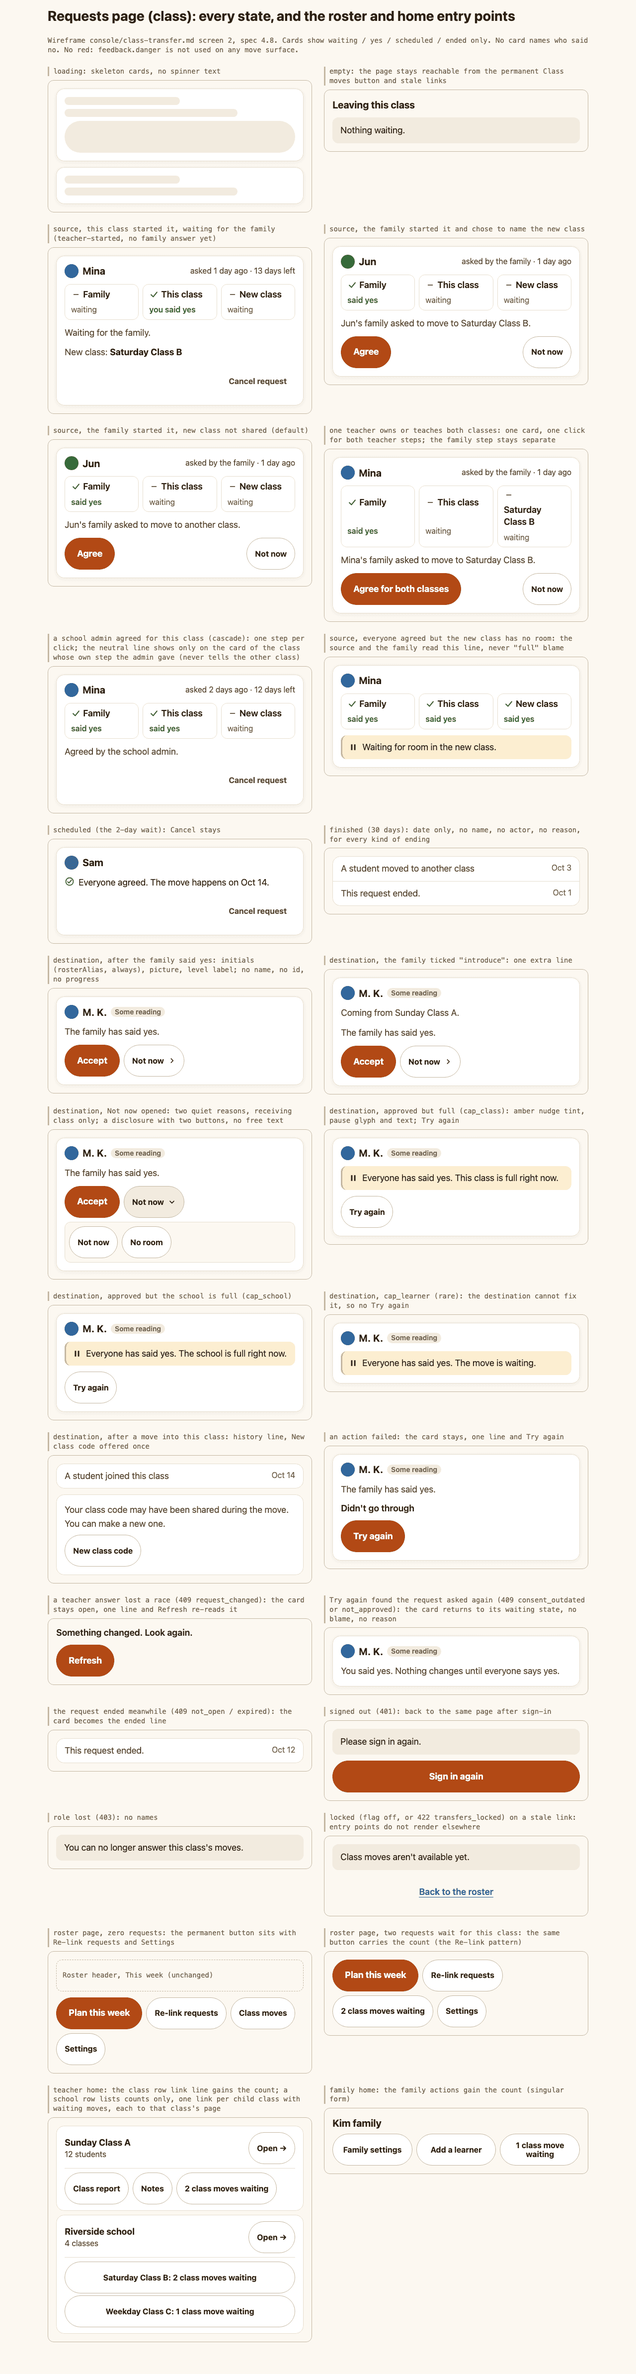
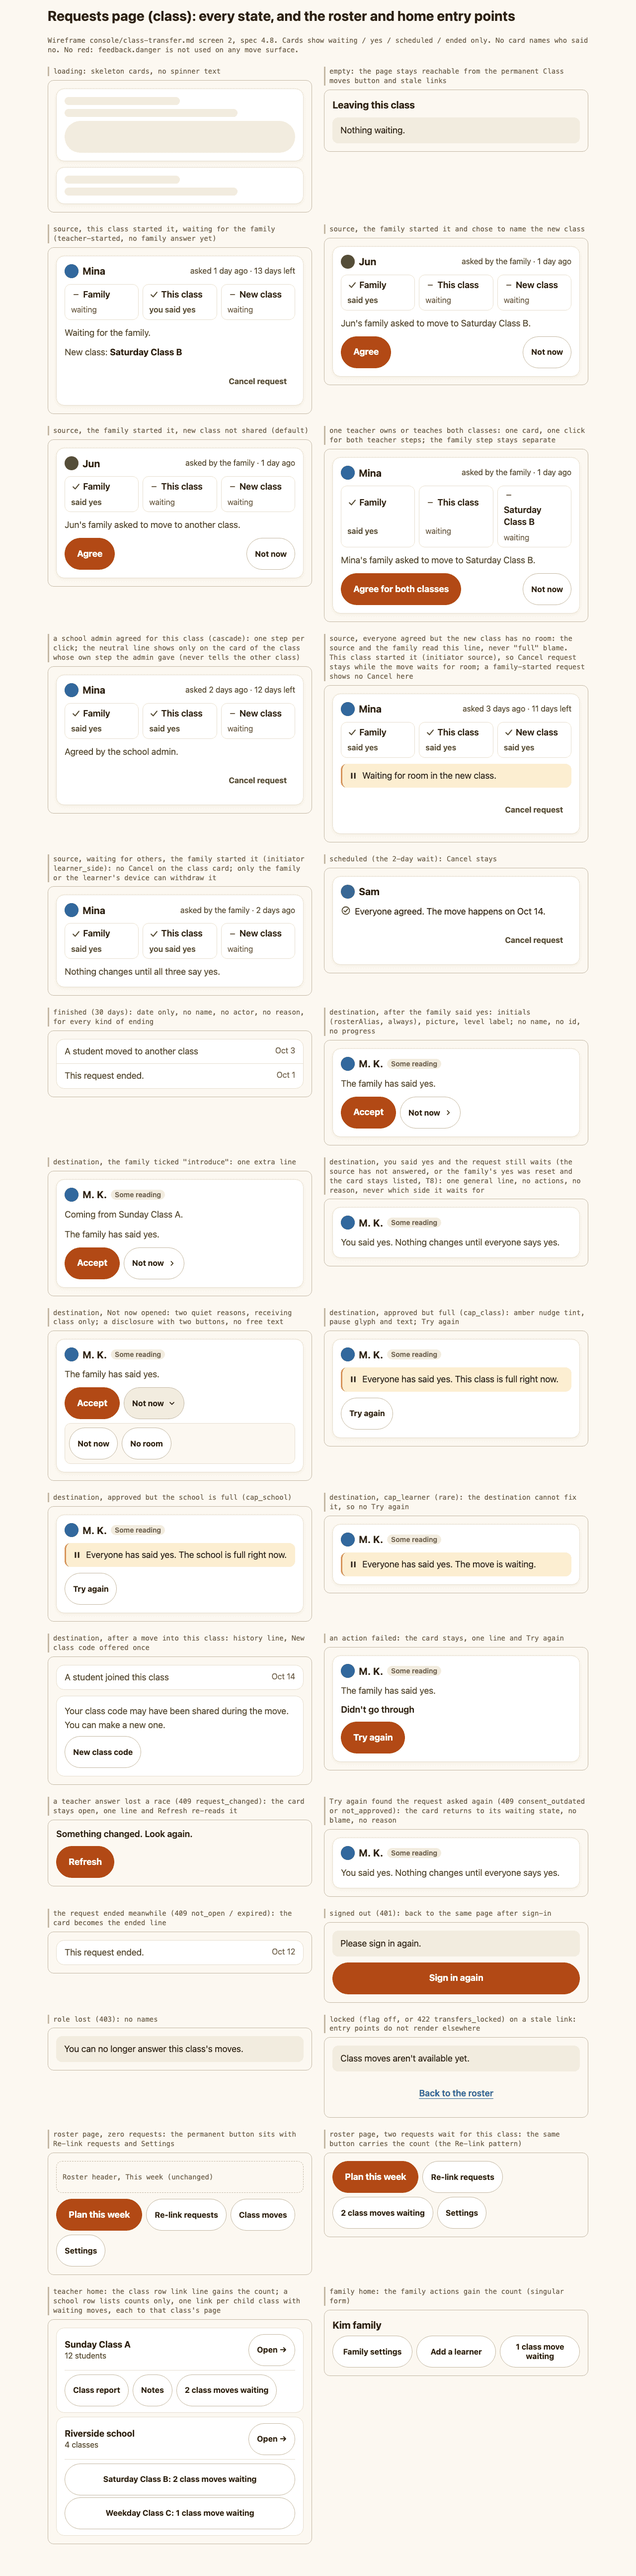
design(transfer): source Cancel follows initiator, destination waiting line after its yes (F-SPACE-002 T-0b)
Codex review on PR #472: a source card shows Cancel request in requested
and approved (waiting, blocked for room, scheduled) only when this class
started the request, as the cancel route allows; a family-started request
never shows it there. The destination card gains its post-answer waiting
line for a source that has not answered and for a family yes that was
reset (T8). Cards, States, README strings and D22/D23 updated; the states
board is re-rendered. CLASS_TRANSFER stays off.

diff --git a/design/screens/transfer/mock/requests-states.html b/design/screens/transfer/mock/requests-states.html
@@ -50,12 +50,20 @@
   
   <div class="move-actions"><button type="button" class="btn btn-quiet btn-small push">Cancel request</button></div>
 </article></div></div></div>
-<div class="board-item"><p class="board-label">source, everyone agreed but the new class has no room: the source and the family read this line, never "full" blame</p><div class="sample"><div class="sample-pad stack-md"><article class="move-card" aria-labelledby="card-12">
-  <div class="move-head"><p class="move-who" id="card-12"><span class="chip" style="background: var(--colors-hoya-furBlueDark)" aria-hidden="true"></span><span>Mina</span></p></div>
+<div class="board-item"><p class="board-label">source, everyone agreed but the new class has no room: the source and the family read this line, never "full" blame. This class started it (initiator source), so Cancel request stays while the move waits for room; a family-started request shows no Cancel here</p><div class="sample"><div class="sample-pad stack-md"><article class="move-card" aria-labelledby="card-12">
+  <div class="move-head"><p class="move-who" id="card-12"><span class="chip" style="background: var(--colors-hoya-furBlueDark)" aria-hidden="true"></span><span>Mina</span></p><p class="move-when">asked 3 days ago · 11 days left</p></div>
   
   <ol class="steps" aria-label="Who has said yes"><li class="step yes"><svg class="icon" width="20" height="20" viewBox="0 0 24 24" aria-hidden="true" focusable="false"><path d="M5 12.5 L10 17.5 L19 6.5" style="fill: none; stroke: var(--colors-feedback-successDark); stroke-width: 2.6; stroke-linecap: round; stroke-linejoin: round"/></svg><span class="step-who">Family</span><span class="step-state">said yes</span></li><li class="step yes"><svg class="icon" width="20" height="20" viewBox="0 0 24 24" aria-hidden="true" focusable="false"><path d="M5 12.5 L10 17.5 L19 6.5" style="fill: none; stroke: var(--colors-feedback-successDark); stroke-width: 2.6; stroke-linecap: round; stroke-linejoin: round"/></svg><span class="step-who">This class</span><span class="step-state">said yes</span></li><li class="step yes"><svg class="icon" width="20" height="20" viewBox="0 0 24 24" aria-hidden="true" focusable="false"><path d="M5 12.5 L10 17.5 L19 6.5" style="fill: none; stroke: var(--colors-feedback-successDark); stroke-width: 2.6; stroke-linecap: round; stroke-linejoin: round"/></svg><span class="step-who">New class</span><span class="step-state">said yes</span></li></ol>
   
   <div class="room-block"><svg class="icon" width="20" height="20" viewBox="0 0 24 24" aria-hidden="true" focusable="false"><path d="M6.5 5 H10 V19 H6.5 Z" style="fill: var(--colors-text-primary)"/><path d="M14 5 H17.5 V19 H14 Z" style="fill: var(--colors-text-primary)"/></svg><p>Waiting for room in the new class.</p></div>
+  <div class="move-actions"><button type="button" class="btn btn-quiet btn-small push">Cancel request</button></div>
+</article></div></div></div>
+<div class="board-item"><p class="board-label">source, waiting for others, the family started it (initiator learner_side): no Cancel on the class card; only the family or the learner's device can withdraw it</p><div class="sample"><div class="sample-pad stack-md"><article class="move-card" aria-labelledby="card-41">
+  <div class="move-head"><p class="move-who" id="card-41"><span class="chip" style="background: var(--colors-hoya-furBlueDark)" aria-hidden="true"></span><span>Mina</span></p><p class="move-when">asked by the family · 2 days ago</p></div>
+  
+  <ol class="steps" aria-label="Who has said yes"><li class="step yes"><svg class="icon" width="20" height="20" viewBox="0 0 24 24" aria-hidden="true" focusable="false"><path d="M5 12.5 L10 17.5 L19 6.5" style="fill: none; stroke: var(--colors-feedback-successDark); stroke-width: 2.6; stroke-linecap: round; stroke-linejoin: round"/></svg><span class="step-who">Family</span><span class="step-state">said yes</span></li><li class="step yes"><svg class="icon" width="20" height="20" viewBox="0 0 24 24" aria-hidden="true" focusable="false"><path d="M5 12.5 L10 17.5 L19 6.5" style="fill: none; stroke: var(--colors-feedback-successDark); stroke-width: 2.6; stroke-linecap: round; stroke-linejoin: round"/></svg><span class="step-who">This class</span><span class="step-state">you said yes</span></li><li class="step"><svg class="icon" width="20" height="20" viewBox="0 0 24 24" aria-hidden="true" focusable="false"><path d="M7 12 H17" style="fill: none; stroke: var(--colors-text-muted); stroke-width: 2.6; stroke-linecap: round; stroke-linejoin: round"/></svg><span class="step-who">New class</span><span class="step-state">waiting</span></li></ol>
+  
+  <p class="move-line">Nothing changes until all three say yes.</p>
   
 </article></div></div></div>
 <div class="board-item"><p class="board-label">scheduled (the 2-day wait): Cancel stays</p><div class="sample"><div class="sample-pad stack-md"><article class="move-card" aria-labelledby="card-13">
@@ -83,6 +91,13 @@
   <p class="move-line">The family has said yes.</p>
   
   <div class="move-actions"><button type="button" class="btn btn-primary">Accept</button><button type="button" class="btn btn-small" aria-expanded="false" aria-controls="reasons-16" aria-label="Not now, choose a reason" data-toggle><span>Not now</span><svg class="chev" viewBox="0 0 24 24" aria-hidden="true" focusable="false"><path d="M9.5 6 L15.5 12 L9.5 18" style="fill: none; stroke: var(--colors-text-primary); stroke-width: 2.6; stroke-linecap: round; stroke-linejoin: round"/></svg></button><div class="reasons" id="reasons-16" role="group" aria-label="Choose an answer" hidden><button type="button" class="btn btn-small">Not now</button><button type="button" class="btn btn-small">No room</button></div></div>
+</article></div></div></div>
+<div class="board-item"><p class="board-label">destination, you said yes and the request still waits (the source has not answered, or the family's yes was reset and the card stays listed, T8): one general line, no actions, no reason, never which side it waits for</p><div class="sample"><div class="sample-pad stack-md"><article class="move-card" aria-labelledby="card-42">
+  <div class="move-head"><p class="move-who" id="card-42"><span class="chip" style="background: var(--colors-hoya-furBlueDark)" aria-hidden="true"></span><span class="alias">M. K.</span><span class="level-pill">Some reading</span></p></div>
+  
+  
+  <p class="move-line">You said yes. Nothing changes until everyone says yes.</p>
+  
 </article></div></div></div>
 <div class="board-item"><p class="board-label">destination, Not now opened: two quiet reasons, receiving class only; a disclosure with two buttons, no free text</p><div class="sample"><div class="sample-pad stack-md"><article class="move-card" aria-labelledby="card-19">
   <div class="move-head"><p class="move-who" id="card-19"><span class="chip" style="background: var(--colors-hoya-furBlueDark)" aria-hidden="true"></span><span class="alias">M. K.</span><span class="level-pill">Some reading</span></p></div>

diff --git a/design/screens/transfer/requests-page.md b/design/screens/transfer/requests-page.md
@@ -46,19 +46,21 @@ URL `/teach/space/transfers?id=<space id>` (`ROUTES.spaceTransfers(id)`); docume
 | Card | Who sees it | Words | Actions |
 |---|---|---|---|
 | Source, this class must answer (family started) | source manager | "{Name}'s family asked to move to another class." (or "... to {Destination}." only when the family ticked `introduce`) | **Agree** (primary), **Not now** (plain, no menu) |
-| Source, waiting for others | source manager | "Nothing changes until all three say yes." | **Cancel request** (quiet) |
+| Source, waiting for others | source manager | "Nothing changes until all three say yes." | **Cancel request** (quiet) when this class started it (`initiator: 'source'`); none on a family-started request |
 | Source, this class started it, no family answer yet | source manager | "Waiting for the family." and "New class: {Destination}" (this class named it) | **Cancel request** |
 | Both classes owned or taught by this account directly | that teacher | the family step stays separate | **Agree for both classes** |
 | A school admin agreed for this class (cascade) | only the class whose own slot was filled `via: school_admin` | "Agreed by the school admin." | as the card's state |
-| Approved, no room yet | source and family | "Waiting for room in the new class." in the room block | none (source); Cancel (family) |
-| Scheduled | everyone who can see the request | "Everyone agreed. The move happens on {date}." | **Cancel request** (starter, caregivers, the learner's device) |
+| Approved, no room yet | source and family | "Waiting for room in the new class." in the room block | **Cancel request** on the source card when this class started it (`initiator: 'source'`), none on a family-started request; Cancel (family) |
+| Scheduled | everyone who can see the request | "Everyone agreed. The move happens on {date}." | **Cancel request** (starter, caregivers, the learner's device; on the source card only when this class started it) |
 | Destination, family said yes | destination manager | initials, avatar, level pill; "The family has said yes."; "Coming from {Source}." first only with `introduce` | **Accept** (primary), **Not now** with reasons |
+| Destination, you said yes, waiting for the others | destination manager, after its own yes while the request is still `requested`: the source has not answered yet, or the family's yes was reset after this class said yes (the card stays listed, T8 and the GET row) | initials, avatar, level pill; "You said yes. Nothing changes until everyone says yes." (no reason, never which side it waits for) | none |
 | Destination, approved, no room | destination manager | room block: `cap_class` "Everyone has said yes. This class is full right now." · `cap_school` "Everyone has said yes. The school is full right now." | **Try again** |
 | History (30 days) | the page's space | source: "A student moved to another class" · destination: "A student joined this class" · any ending: "This request ended." | none |
 | After a move into this class | destination manager, once | "Your class code may have been shared during the move. You can make a new one." | **New class code** (the existing regenerate flow with its confirm) |
 
 - **Steps** are an `ol` labelled "Who has said yes" (`a11y`), each item a glyph (`check` in `feedback.successDark` for yes, `dash` in `text.muted` for waiting), the step name and the state word ("said yes", "you said yes", "waiting"). The state is in the word and the glyph shape, never in colour alone (check board). A `not_required` source step (the source was archived after the family agreed, 4.13) is **not drawn**: the family card then shows two steps (Family, the new class). The archived class's own page is read-only and shows the card without actions.
-- **Destination step labels.** A destination card has no step list: the destination never learns whether the source agreed (TransferDestinationView carries this class's own state only). It reads "The family has said yes." until it answers, then the scheduled or room line.
+- **Destination step labels.** A destination card has no step list: the destination never learns whether the source agreed (TransferDestinationView carries this class's own state only). It reads "The family has said yes." until it answers. After its yes it reads one of three lines: "You said yes. Nothing changes until everyone says yes." while the request is still `requested` (the source has not answered, or the family's yes was reset and the family must answer again; the line is the same in both cases, so the destination learns neither the source's answer nor the reset), the scheduled line once `approved` with no block, or the room line once `approved` with a block. It has no actions while it waits: the destination is never the initiator, so it has no Cancel.
+- **Cancel on a source card follows `initiator`.** The cancel route allows the initiator's manager (class) or a guardian (family), spec 4.4 and the cancel row of the routes table. So a source card shows **Cancel request** in `requested` and `approved` (waiting, blocked for room, scheduled) only when `initiator === 'source'`, which keeps the start sheet's "You can cancel any time before the move." true while the request waits for room. On a family-started request (`initiator: 'learner_side'`) the source card never shows Cancel; its only answers are **Agree** / **Not now** while its own step waits (the cancel route answers a source cancel there with `404 not_found`, `routes/transfers.ts`, so the button is never drawn). `canCancel` (spec 4.8) takes the view's `initiator` and the page's role.
 - **No card names who said no** (anti-shame, 4.2 Views). Every ending is "This request ended." with a date. The deciding side keeps its own choice in its own history only (the destination's "No room"), which the page does not draw beyond the ended line in v1.
 - **`cap_learner` at execution** (the learner already holds the class cap outside the source; rare: join caps it at 3) shows the room block as "Everyone has said yes. The move is waiting." with no Try again on the destination, because the destination cannot fix it; the learner side reads the family line of `family-page.md`.
 - **Not now on the receiving class** is a disclosure button ("Not now" with a chevron, `aria-expanded`, accessible name "Not now, choose a reason" so it is not confused with the inner Not now; the visible words stay inside the name) that opens a group of two buttons, **Not now** and **No room** (group label "Choose an answer"). Not an ARIA menu: two buttons need no roving focus. Other cards have a plain **Not now**. No free text anywhere.
@@ -90,6 +92,7 @@ Order within a refresh: waiting for this class first, then waiting for others, t
 | action failed | the card stays; "Didn't go through" (`role="alert"`) and **Try again** as the card's primary |
 | ended meanwhile (409 `not_open` / `expired`) | the card becomes the history line "This request ended." |
 | a teacher answer lost the race (409 `request_changed`) | the card stays open; "Something changed. Look again." (`role="alert"`) and **Refresh**, which re-reads the list and redraws the card |
+| destination already said yes, the request still `requested` (the source has not answered, or the family's yes was reset, T8) | the destination card shows "You said yes. Nothing changes until everyone says yes." with no actions and no reason; it is never hidden again |
 | Try again found the request asked again (409 `consent_outdated` / `not_approved`) | the card returns to its waiting state: on the destination "You said yes. Nothing changes until everyone says yes."; on a source that also manages the destination, its steps with "Nothing changes until all three say yes." No reason is given |
 | 401 | "Please sign in again." (existing key) and **Sign in again**, back to the same page |
 | 403 | "You can no longer answer this class's moves." |

diff --git a/design/screens/transfer/README.md b/design/screens/transfer/README.md
@@ -58,7 +58,7 @@ Values that are not tokens. Each derives from a token, the content or a measurem
 | `requests-375.png`, `-1280.png` | page | class page as both source and destination: a family-started card to agree, a waiting card, a scheduled card, history, a destination card to accept, a destination card waiting for room |
 | `requests-390-first.png` | 390 x 844, first screen | the first card with its Agree in the first screen |
 | `requests-320-text200.png` | 320, text 200 % | the same page enlarged, one column, no sideways scroll |
-| `requests-states-375.png`, `-1280.png` | board | loading, empty, every source and destination card, the reasons disclosure, both room causes, cap_learner, after a move in (New class code), failed action, request_changed, retry asked again, ended meanwhile, 401, 403, locked, the roster button at zero and two, the teacher home (school row with per-class counts) and family home counts |
+| `requests-states-375.png`, `-1280.png` | board | loading, empty, every source and destination card, the reasons disclosure, both room causes, cap_learner, after a move in (New class code), failed action, request_changed, retry asked again, the destination waiting after its yes, a family-started source card without Cancel, ended meanwhile, 401, 403, locked, the roster button at zero and two, the teacher home (school row with per-class counts) and family home counts |
 | `settings-375.png`, `-1280.png` | page | class settings with Move beside Remove, the Danger zone below |
 | `start-sheet-375.png`, `-1280.png`, `-320-text200.png` | page | the start sheet at step 2 over the overlay |
 | `start-sheet-states-375.png`, `-1280.png` | board | class, family, offline and archived rows; step 1 empty and looking; the seven error sheets and the five other answers (same_space, already_open, destination_busy, too_many_requests, not_transferable); step 2; sent |
@@ -145,7 +145,7 @@ T-6a adds the console ones to the console message namespace (`console.transfer.*
 | "Ask the grown-up with the account to start this move in the console." | app, `409 caregiver_required` |
 | "Moves can't be started on this device yet." | app, `422 device_consent_locked` |
 | "Something changed. Look again.", "Refresh" | console card, `409 request_changed` |
-| "You said yes. Nothing changes until everyone says yes." | destination card after retry answered `consent_outdated` / `not_approved` |
+| "You said yes. Nothing changes until everyone says yes." | destination card after its own yes while the request is still `requested` (the source has not answered, or the family's yes was reset, T8), and after a retry answered `consent_outdated` / `not_approved`; spec 4.8 "Cancel while open" and the general waiting copy |
 | "Saturday Class B: 2 class moves waiting" (`{Class}: {count}`) | teacher home, school row, one link per child class |
 | "Moves open one day after the PIN is set." | app Classes card (d'), a PIN made less than a day ago |
 | "This move can't be answered here." | app, route `none` (card row and read-only sheet) |
@@ -186,9 +186,13 @@ Every other drawn string is a wireframe or spec draft (word for word) or an exis
 - **D19. The app sheet has the language switch** (guard 7 "offers the language switch"), the same select as the console, starting at the UI locale. Until ko and es texts are reviewed (G2), those choices show "Not available in your language yet." on both surfaces.
 - **D20. Home never carries a yes.** The self-audience Home line opens `ApproveTransfer` ("Yes, move me" sits after the lines), so a yes always follows the consent text. Spec 4.12 Home is amended.
 - **D21. Not now says what it does when it ends a request.** On a teacher-started sheet and the family card: "Not now ends this request. You can start a move yourself any time." as Not now's description; the label stays the wireframe's "Not now".
+- **D22. Cancel on a source card follows `initiator`.** The source card shows **Cancel request** while the request is `requested` or `approved` (waiting for others, waiting for room, scheduled) only when this class started it (`initiator: 'source'`), as the cancel route allows (spec 4.4); a family-started request never shows it there. The start sheet's "You can cancel any time before the move." stays true while the move waits for room.
+- **D23. The destination's waiting line after its yes.** Once the destination has said yes and the request is still `requested` (the source has not answered, or the family's yes was reset and the card stays listed, T8), the card reads "You said yes. Nothing changes until everyone says yes." with no actions. The same line covers both causes, so the destination learns neither the source's answer nor the reset.
 
 ## Review
 
 Made with a multi-agent review in place of the owner's hand mockups (owner decision 2026-10-12). Lenses (the spec's T-0b row: design, accessibility, anti-shame and copy, privacy) applied to every board before this PR: spec conformance (every state of the wireframe and of spec 4.8, 4.12 and 4.13 drawn or ruled out with a reason, D13), privacy (T8: the destination never sees a name, id, progress or source before the move; T14: no names in URLs or titles), anti-shame (no actor or reason on an ending, no red; no countdown on learner, family or destination surfaces, while the source teacher's card shows days left as plain meta text per `daysLeft`), audience (no age wording, "learner" and "grown-up" on shared surfaces), consent text fidelity (word for word from the schema, canonical order), tokens (no literal outside the token block), and accessibility (targets, focus order, sideways scroll, 200 % text, greyscale and protanopia). Fixes found by that pass and applied here: the reasons group showed while closed (a `[hidden]` rule), the code field was too narrow for six characters, the route line sat under the steps, Find class stayed primary next to Send request, and the app variants mixed a family row into the device route.
 
 **Review round 2 (two independent reviewers on PR #472).** Accepted and applied: the missing app states (waiting for the classes, waiting for room, ended, route `none`) and the guard-11 veto on every open request (D8, D13); every reachable error code with a drawn line (start sheet, family page, MoveClass, request_changed, retry asked again); the reading gate on both surfaces with the list open everywhere (D2, D15); the spec amendments for 4.8, 4.11 and 4.12; the variant rule and the PIN lines (D16); the step 2 privacy sentence; one live region per page; the destination disclosure name (D5); the countdown wording above; Move on every class row; the Home targets by route; per-class counts on the school row; T-7c depending on T-0b; class age as a bucket (D18); the school-admin line on its own class (D17); the inbox learner count as a T-5c follow-up (`app-sheets.md`); the app language switch (D19); learner names in the row buttons; the Not now line (D21). Nothing was rejected.
+
+**Codex review (PR #472, commit 43d93928).** The reading gate (P1) was already closed by D2 in review round 2. The two P2s are applied: Cancel on a source card follows `initiator`, including while a source-started move waits for room (D22, `requests-page.md` Cards), and the destination card has a waiting line after its own yes, for a source that has not answered and for a family yes that was reset (D23, Cards and States). `requests-states-375.png` and `-1280.png` are re-rendered.
